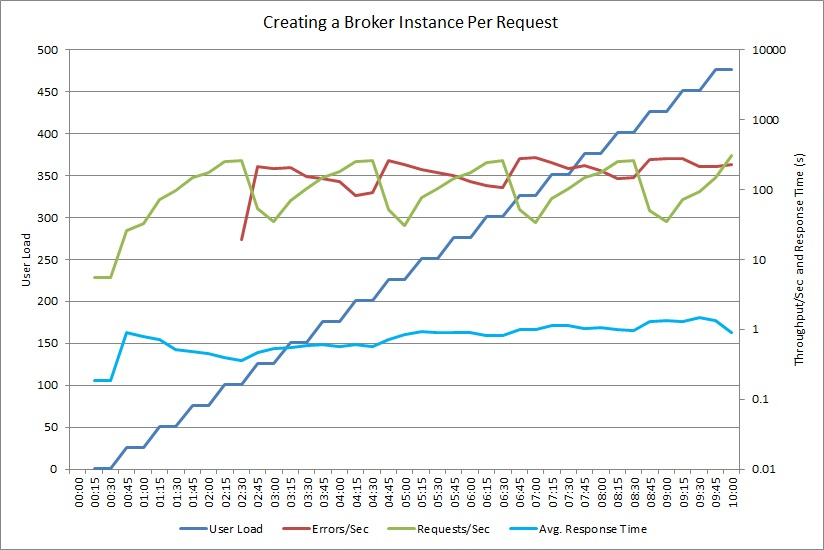
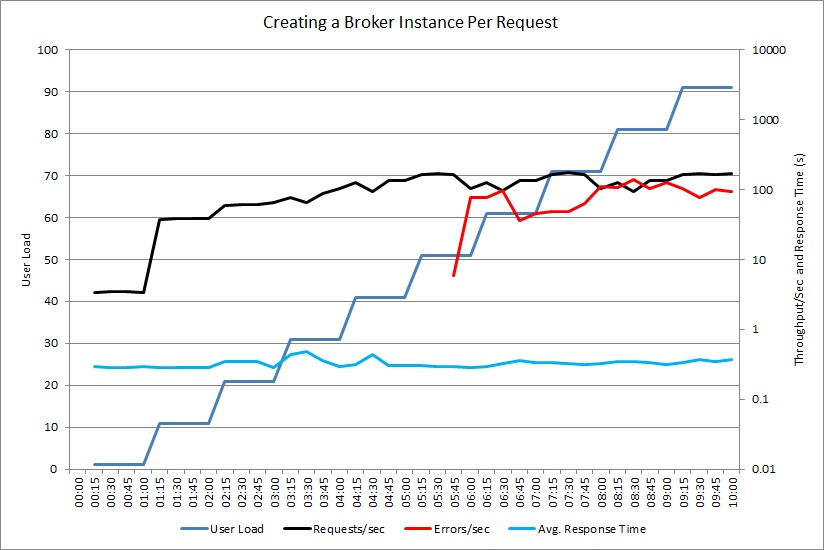
Updated graphs with new data and amended narrative

diff --git a/TooManyInstances/docs/TooManyInstances.md b/TooManyInstances/docs/TooManyInstances.md
@@ -191,11 +191,11 @@ During periods of stress, operations that continually create and destroy large o
 
 ### Performing load-testing
 
-You can use load-testing based on workloads that emulate the typical sequence of operations that users might perform to help identify which parts of a system suffer with resource-exhaustion under varying loads. You should perform these tests in a controlled environment rather than the production system. The following graph shows the throughput of requests directed at the `NewInstancePerRequest` controller in the sample application as the user load is increased up to 450  concurrent users. Note that as the user load passes 200 concurrent users the number of failed requests suddenly increases. These failures are reported by the load test as HTTP 500 (Internal Server) errors.
+You can use load-testing based on workloads that emulate the typical sequence of operations that users might perform to help identify which parts of a system suffer with resource-exhaustion under varying loads. You should perform these tests in a controlled environment rather than the production system. The following graph shows the throughput of requests directed at the `NewInstancePerRequest` controller in the sample application as the user load is increased up to 100  concurrent users. 
 
-![Throughput of the sample application creating a new instance of an HttpClient object for each requests][throughput-new-instance]
+![Throughput of the sample application creating a new instance of an HttpClient object for each request][throughput-new-instance]
 
-In this graph, the scale of the throughput and response times is logarithmic to enable these measures to be shown effectively on the graph. After the initial loading the system stabilizes, supporting approximately 300 requests/second (oscillating between successful and failed requests) with an average response time of between 0.5 and 1 second per request.
+In this graph, the scale of the throughput and response times is logarithmic to enable these measures to be shown effectively on the graph. AThe volume of requests handled per second increases at the 10-user point due to the increased workload up to approximately 60, but the performance levels out as more users are added and the maximum request rate the system can support is around 150. The average response time remains stable at approximately 330 milliseconds. Note that as the user load passes 50 concurrent users the number of failed requests suddenly increases. These failures are reported by the load test as HTTP 500 (Internal Server) errors.
 
 ### Reviewing the code
 
@@ -228,6 +228,12 @@ public class SingleInstanceController : ApiController
 }
 ```
 
+----------
+
+**Note:** This code is available in the [sample solution][fullDemonstrationOfSolution] prpovided with this anti-pattern.
+
+----------
+
 You should consider the following points:
 
 - In the example shown above, the *pool* consists of a single `ProductRepository` object, and by extension a single `HttpClient` object. If this approach causes contention, consider creating a pool of more than one instance of an object and spreading the workload across these instances.
@@ -244,15 +250,13 @@ Service Bus client objects, such as `QueueClient` or `MessageSender`, are create
 
 - Only use this approach where it is appropriate. You should always release scarce resources once you have finished with them, and acquire them only on an as-needed basis. A common example is a database connection. Retaining an open connection that is not required may prevent other concurrent users from gaining access to the database.
 
-[Link to the related sample][fullDemonstrationOfSolution]
-
 ## Consequences of the solution
 
 The system should should be more scalable, offer a higher throughput (the system is wasting less time acquiring and releasing resources and is therefore able to spend more time doing useful work), and report fewer errors as the workload increases. The following graph shows the load-test results for the sample application, using the same workload as before, but invoking the `GetProductAsync` method in the `SingleInstance` controller:
 
-![Key indicators load-test results for the Chunky API in the Chatty I/O sample application][throughput-single-instance]
+![Throughput of the sample application reusing the same instance of an HttpClient object for each request][throughput-single-instance]
 
-No errors were reported, and the system was amply able to handle an increasing load (up to nearly 3000 requests per second) with relatively low response time (between 0.07 and 0.15 seconds on average per request).
+No errors were reported, and the system was amply able to handle an increasing load  of up to over 500 requests per second. The average response time was close to half that of the previous test (around 170 milliseconds).
 
 ## Related resources
 
